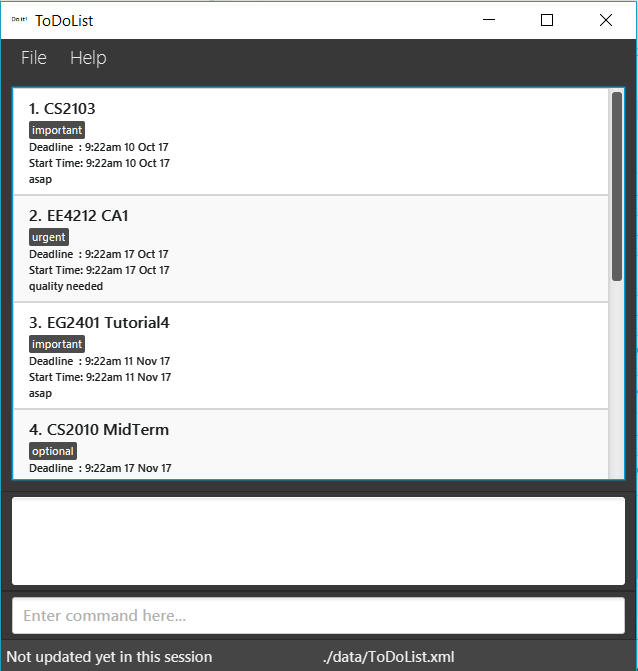
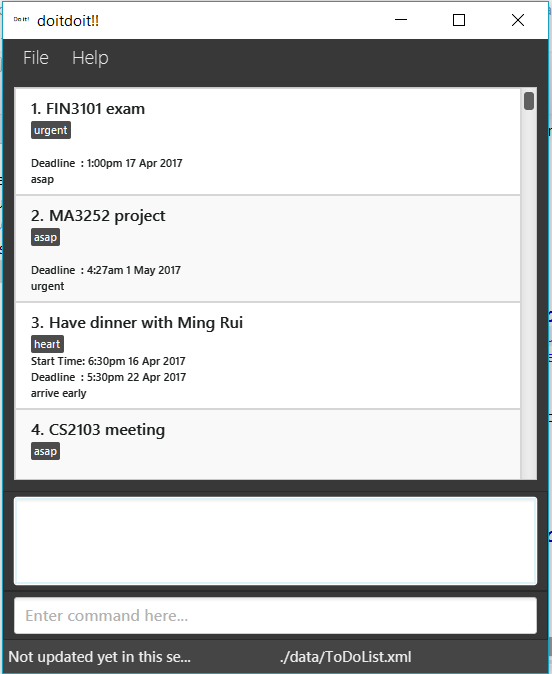
update user guide;

Changed region(s): [[0.0, 0.0, 1.0, 1.0], [0.9239, 0.0, 0.9547, 0.0596], [0.8315, 0.0298, 0.8623, 0.0596]]

diff --git a/docs/UserGuide.md b/docs/UserGuide.md
@@ -16,8 +16,8 @@ By : `Team Just Do It`  &nbsp;&nbsp;&nbsp;&nbsp; Since: `March 2017`  &nbsp;&nbs
    > Having any Java 8 version is not enough. <br>
    > This app will not work with earlier versions of Java 8.
 
-1. Download the latest `todolist.jar` from the [releases](../../../releases) tab.
-2. Copy the file to the folder you want to use as the home folder for your To Do List.
+1. Download the latest `doitdoit!!.jar` from the [releases](../../../releases) tab.
+2. Copy the file to the folder you want to use as the home folder for your doitdoit!!.
 3. Double-click the file to start the app. The GUI should appear in a few seconds.
    > <img src="images/Ui.png" width="600">
 
@@ -51,8 +51,8 @@ Format: `help`
 ### 2.2. Adding a task: `add`
 
 Adds a Task to the task list<br>
-Format: `add TITLE (from: STARTTIME) (till: DEADLINE) (remarks: REMARKS) (#LABELS...)`
-OR: `add TITLE (from: STARTTIME) (due: DEADLINE) (remarks: REMARKS) (#LABELS...)`
+Format: `add TITLE (from: STARTTIME) (till: DEADLINE) (remark: REMARK) (#LABELS...)`
+OR: `add TITLE (from: STARTTIME) (due: DEADLINE) (remark: REMARK) (#LABELS...)`
 
 > Other than TITLE, all other information is purely optional.
 > STARTTIME and DEADLINE inputs are very flexible!
@@ -63,19 +63,19 @@ OR: `add TITLE (from: STARTTIME) (due: DEADLINE) (remarks: REMARKS) (#LABELS...)
 
 Examples:
 
-* `add Complete Assignment 1 from: now till: friday remarks: 20% of final grade #Assignment`<br>
+* `add Complete Assignment 1 from: now till: friday remark: 20% of final grade #Assignment`<br>
 * `add Revise tutorial 1 #Assignment`<br>
 * `add Do CS2103 T7 till: thursday 8pm remarks: Remember to make pull request on github #School`<br>
-* `add Buy gift for mom till:7th September #Birthday #Family`<br>
+* `add Buy gift for mom due:7th September #Birthday #Family`<br>
 * `add Finish studing for mid term from: now till: tomorrow #School #Exam`<br>
 
 ### 2.3. Listing tasks : `list`
 
 Shows tasks of specified types in the to do list.<br>
-Format: `list type`
+Format: `list TYPE`
 
-> List tasks of the specified type.
-> Three types are available: 'all', 'ongoing', 'completed'.
+> List tasks of the specified TYPE.
+> Three TYPES are available: 'all', 'ongoing', 'completed'.
 
 Examples:
 
@@ -85,52 +85,58 @@ Examples:
 
 ### 2.4. Editing a task : `edit`
 
-Edits an existing task in the ToDoList.<br>
-Format: `edit INDEX (TITLE) (from: STARTTIME) (till: DEADLINE) (remarks: REMARKS) (#LABELS)`
-OR: `edit INDEX (TITLE) (from: STARTTIME) (due: DEADLINE) (remarks: REMARKS) (#LABELS)`
+Edits an existing task in the to do list.<br>
+Format: `edit INDEX (TITLE) (from: STARTTIME) (till: DEADLINE) (remark: REMARK) (#LABELS...)`
+OR: `edit INDEX (TITLE) (from: STARTTIME) (due: DEADLINE) (remarks: REMARK) (#LABELS...)`
 
 > * Edits the task at the specified `INDEX`.
     The index refers to the index number shown in the last task listing.<br>
     The index **must be a positive integer** 1, 2, 3, ...
 > * At least one of the optional fields must be provided.
 > * Existing values will be updated to the input values.
-> * Clear all LABELS by entering ` #`, similarly for REMARKS, type `remarks:`
+> * Clear all LABELS by entering ` #`. Other fields cannot be cleared.
 
 Examples:
 
-* `edit 1 till: next Thursday`<br>
+* `edit 1 due: next Thursday`<br>
   Edits the due date of the 1st task to be next Thursday.
 * `edit 2 CS2103 homework #`<br>
   Edits the TITLE of the 2nd task to be `CS2103 homework` and clears all existing LABELS.
 
-### 2.5. Finding all tasks containing any keyword in their task summary: `find`
+### 2.5. Finding all tasks containing any keyword in their task title or remark: `find`
 
 Finds tasks based on any of the given keywords.<br>
-Format: `find (KEYWORDS...) (#LABEL_KEYWORDS...)`
+Format: `find KEYWORDS (MORE_KEYWORDS...)`
 
-> * The search is not case sensitive. e.g `hans` will match `Hans`
-> * The order of the keywords does not matter. e.g. `Hans Bo` will match `Bo Hans`
+> * The search is not case sensitive. e.g `homework`(in task) will match `Homework` (keyword)
+> * The order of the keywords does not matter. e.g. `Math Homework` will match `Homework Math`
 > * Tasks matching at least one keyword will be returned (i.e. `OR` search).
-    e.g. `Hans` will match `Hans Bo`
+    e.g. `Homework` will match `Math Homework`
 > * Only the task title and remarks are searched for keywords (substring match).
-> * Only labels are searched for label keywords (full word match).
-> * At least one of the optional fields must be present.
-> * Only one the search will occur. (keyword search or label search).
-> * Task summary search: substrings will be matched e.g. `Hanss` will match keyword `Hans`
-> * Label search: full word is matched. e.g. `Hanss` will not match keyword `Hans`
+> * substrings will be matched e.g. `Homeworks` will match keyword `Homework`
 
 Examples:
 
 * `find homework`<br>
-  Returns `CS2103 homework` and `EE4212 Homework`
+  Returns `CS2103 homework` and `EE4212 Homeworks`
 * `find homework CS2103 EG2401`<br>
   Returns Any task having following words containing the substring in task summary `homework`, `CS2103`, or `EG2401`
+
+### 2.6. Finding all tasks containing any exact keyword match in their task label: `find`
+Finds tasks based on any of the given keywords.<br>
+Format: `find #LABEL_KEYWORDS (#MORE_LABEL_KEYWORDS...)`
+
+> * The search is not case sensitive. e.g `#important`(in task) will match `#IMPORTANT`(label keyword)
+> * Label search: full word is matched. (full word match). e.g `#graded`(in task) will not match `#grade`(label keyword)
+
+Examples:
+
   * `find #Assignment`<br>
   Returns `MA1100 #Assignment` and `MA3252 #assignment`
 
-### 2.6. Deleting a task : `delete`
+### 2.7. Deleting a task : `delete`
 
-Deletes the specified task from the todolist. Can be undone.<br>
+Deletes the specified task from the to do list. Can be undone.<br>
 Format: `delete INDEX`
 
 > Deletes the task at the specified `INDEX`. <br>
@@ -146,9 +152,9 @@ Examples:
   `delete 1`<br>
   Deletes the 1st task in the results of the `find` command.
 
-### 2.7. Completing a task : `edit INDEX c/`
+### 2.8. Completing a task : `edit INDEX c/`
 
-Marks the specified task from the todolist as complete. Can be undone.<br>
+Marks the specified task from the doitdoit!! as complete. Can be undone.<br>
 Format: `edit INDEX c/completion_status`
 
 > Marks the task at the specified `INDEX` ad completed or not completed. <br>
@@ -159,34 +165,19 @@ Examples:
 
 * `list`<br>
   `edit 3 c/yes`<br>
-  Marks the 3rd task in the todolist as complted.
+  Marks the 3rd task in the doitdoit!! as complted.
   Hence the task is no longer displayed as by default ongoing tasks are shown after each edit .
 * `list completed `<br>
   `edit 2 c/no`<br>
   Marks the 2nd task in the completed task list as incompleted.
   After this, the list of ongoing tasks will be shown.
 
-### 2.8. Clearing all entries : `clear`
+### 2.9. Undo last action : `undo`
 
-Clears all entries from the todolist. Can be undone<br>
-Format: `clear`
-
-### 2.9. Exiting the program : `exit`
-
-Exits the program.<br>
-Format: `exit`
-
-### 2.10. Saving the data
-
-Todolist data are saved in the hard disk automatically after any command that changes the data.<br>
-There is no need to save manually.
-
-### 2.11. Undo last action : `undo`
-
-Undo last action from the todolist. Able to undo up to last 11 actions.<br>
+Undo last action from the doitdoit!!. Able to undo up to last 11 actions.<br>
 Format: `undo`
 
-### 2.12. Set storage location : `set_path LOCATION`
+### 2.10. Set storage location : `set_path LOCATION`
 
 Set the storage location as desired. This can be used to store data at a folder linked to the cloud.
 Note that after set a new storage location, the application need to restart.
@@ -195,17 +186,31 @@ Format: `set_path LOCATION`
 
 Examples:
 
-* `set_path f:/ToDoList.xml`<br>
-Sets the stroage file to be 'ToDoList.xml' under disk f.
+* `set_path f:/doitdoit!!.xml`<br>
+Sets the stroage file to be 'doitdoit!!.xml' under disk f.
 
 * `set_path default`
 Sets the storage file to be default name under default folder.
+### 2.8. Clearing all entries : `clear`
+
+Clears all entries from the doitdoit!!. Can be undone<br>
+Format: `clear`
+
+### 2.11. Exiting the program : `exit`
+
+Exits the program.<br>
+Format: `exit`
+
+### 2.12. Saving the data
+
+doitdoit!! data are saved in the hard disk automatically after any command that changes the data.<br>
+There is no need to save manually.
 
 ## 3. FAQ
 
 **Q**: How do I transfer my data to another Computer?<br>
 **A**: Install the app in the other computer and overwrite the empty data file it creates with
-       the file that contains the data of your previous To Do List folder.
+       the file that contains the data of your previous doitdoit!! folder.
 
 ## 4. Command Summary
 

diff --git a/src/test/data/Manual Testing/Testscript.md b/src/test/data/Manual Testing/Testscript.md
@@ -39,8 +39,8 @@ OR: `add TITLE (from: STARTTIME) (due: DEADLINE) (remarks: REMARKS) (#LABELS...)
 
 Scenario | Input Command  | Expected task panel results | Expected command box results
 ------------ | ------------- | -------------  | ------------- 
-Add a task with all fields | `add go on a diet from: 04/12/17 12am till: next Sunday 12am remark: avoid oily and fatty foods #health #greens` | Task entered at index 20 | New task added: go on a diet Start Time: 0:00am 10 Apr 2017 Deadline: 0:00am 16 Apr 2017 Remarks: avoid oily and fatty foods Labels: [health][greens]
-Add a task with deadline | `add finish math assignment due: 04/19/17 2pm remark: submit during lecture #graded #math` | Task entered at index 20 | New task added: finish math assignment Deadline: 2:00pm 19 Apr 2017 Remarks: submit during lecture Labels: [graded][math]
+Add a task with all fields | `add go on a diet from: 04/12/17 12am till: next Sunday 12am remark: avoid oily and fatty foods #health #greens` | Task entered at index 16 | New task added: go on a diet Start Time: 0:00am 10 Apr 2017 Deadline: 0:00am 16 Apr 2017 Remarks: avoid oily and fatty foods Labels: [health][greens]
+Add a task with deadline | `add finish math assignment due: 04/19/17 2pm remark: submit during lecture #graded #math` | Task entered at index 34 | New task added: finish math assignment Deadline: 2:00pm 19 Apr 2017 Remarks: submit during lecture Labels: [graded][math]
 Add a task with title only | `add send email to boss` | Task entered at index 1 | New task added: send email to boss
 
 ### List Command
@@ -51,8 +51,8 @@ List tasks of the specified type. Three types are available: 'all', 'ongoing', '
 Scenario | Input Command  | Expected task panel results | Expected command box results
 ------------ | ------------- | -------------  | ------------- 
 List all tasks. | `list all` | 54 tasks listed | Listed all tasks
-List completed tasks. | `list completed` | 0 tasks listed |Listed completed tasks
-List ongoing tasks. | `list ongoing` | 54 tasks listed | Listed ongoing tasks
+List completed tasks. | `list completed` | 4 tasks listed |Listed completed tasks
+List ongoing tasks. | `list ongoing` | 50 tasks listed | Listed ongoing tasks
 List incorrect syntax. | `List` | Command box turns red. |Unknown command. Type 'help' to get help!
 
 ## Edit Command
@@ -62,9 +62,9 @@ OR: `edit INDEX (TITLE) (from: STARTTIME) (due: DEADLINE) (remarks: REMARKS) (#L
 
 Scenario | Input Command  | Expected task panel results | Expected command box results
 ------------ | ------------- | -------------  | ------------- 
-Edit title of a task. | `edit 7 Go buy stationeries` | Task updated at index 7 | Edited Task: Go buy stationeries Start Time: 1:31am 11 Apr 2017 Deadline: 1:31am 11 Apr 2017
-Edit deadline of a task. | `edit 9 due: 04/14/17 4pm` | Task updated at index 7 | Edited Task: FIN3101 project Start Time: 1:31am 6 Apr 2017 Deadline: 4:00pm 14 Apr 2017
-Edit to remaove labels. | `dit 2 #` | Task updated at index 2 | Edited Task: Go buy pizza Deadline: 1:31am 6 Apr 2017
+Edit title of a task. | `edit 3 Go buy stationeries` | Task updated at index 3 | Edited Task: Go buy stationeries Start Time: 1:31am 11 Apr 2017 Deadline: 1:31am 11 Apr 2017
+Edit deadline of a task. | `edit 5 due: 04/14/17 4pm` | Task updated at index 16 | Edited Task: FIN3101 project Start Time: 1:31am 6 Apr 2017 Deadline: 4:00pm 14 Apr 2017
+Edit to remaove labels. | `edit 2 #` | Task updated at index 2 | Edited Task: Go buy pizza Deadline: 1:31am 6 Apr 2017
 
 ## Find Command
 
@@ -92,9 +92,9 @@ completion_status available are: "yes", "no"
 
 Scenario | Input Command  | Expected task panel results | Expected command box results
 ------------ | ------------- | -------------  | ------------- 
-Complete a task | `edit 3 c/yes` | 52 tasks listed. | Edited Task: FIN3101 project Start Time: 1:31am 6 Apr 2017 Deadline: 4:00pm 14 Apr 2017 Completion: true
+Complete a task | `edit 3 c/yes` | 48 tasks listed. | Edited Task: FIN3101 project Start Time: 1:31am 6 Apr 2017 Deadline: 4:00pm 14 Apr 2017 Completion: true
 Mark an incomplete task as incomplete | `edit 6 c/no` | no change | Edited Task: Stock up on pizza Start Time: 1:31am 6 Apr 2017 Deadline: 1:31am 11 Apr 2017 Labels: [urgent]
-Mark a complete task as incomplete | `list completed` `edit 1 c/no` | 53 tasks listed. Editted task found at index 29. | Edited Task: FIN3101 project Start Time: 1:31am 6 Apr 2017 Deadline: 4:00pm 14 Apr 2017
+Mark a complete task as incomplete | `list completed` `edit 5 c/no` | 49 tasks listed. Editted task found at index 15. | Edited Task: FIN3101 project Start Time: 1:31am 6 Apr 2017 Deadline: 4:00pm 14 Apr 2017
 
 ## Undo Command
 
@@ -102,7 +102,7 @@ Command Format: `undo`
 
 Scenario | Input Command  | Expected task panel results | Expected command box results
 ------------ | ------------- | -------------  | ------------- 
-Undo an action | `delete 1` | 52 tasks listed.  | Previous command undone!
+Undo an action | `undo` | 52 tasks listed.  | Previous command undone!
 
 ## Clear Command
 
